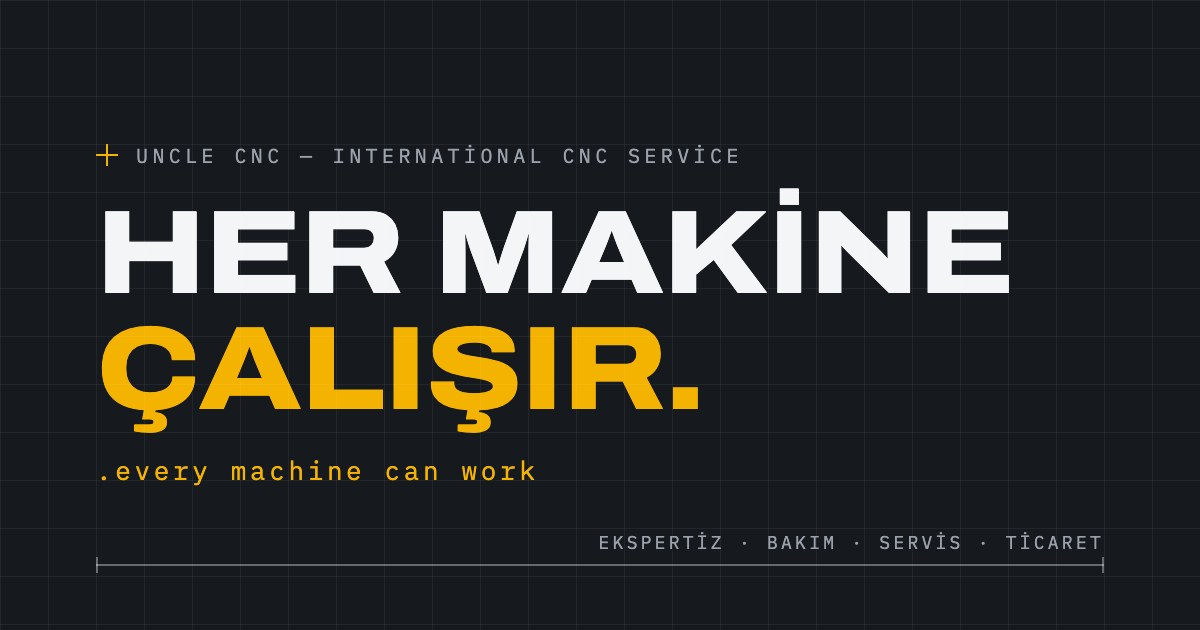
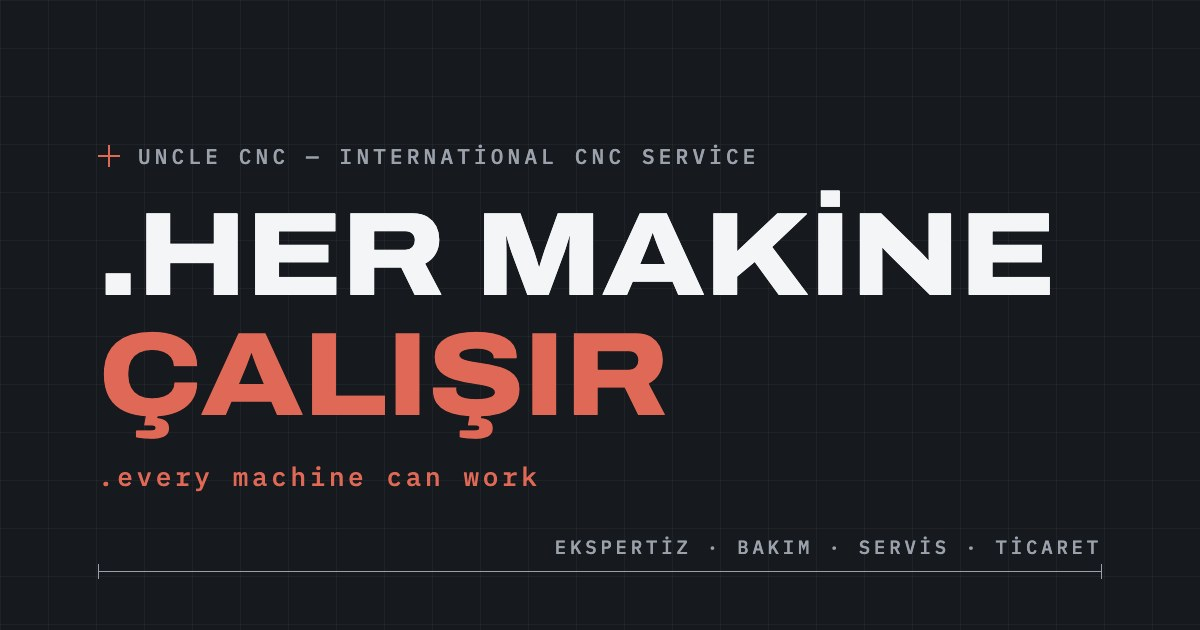
Refresh OG image in red, add www redirect and JSON-LD, set 1.0.0

diff --git a/src/lib/components/site/Seo.svelte b/src/lib/components/site/Seo.svelte
@@ -2,12 +2,20 @@
 	import { page } from '$app/state';
 	import { site } from '$lib/data/site';
 	import { getLocale } from '$lib/paraglide/runtime';
+	import { jsonLdScript } from '$lib/utils/json-ld';
 
 	let {
 		title,
 		description = site.description,
-		image = `${site.url}/og.jpg`
-	}: { title?: string; description?: string; image?: string } = $props();
+		image = `${site.url}/og.jpg`,
+		jsonLd
+	}: {
+		title?: string;
+		description?: string;
+		image?: string;
+		/** Sayfaya özel schema.org nesnesi (ör. ilan sayfasında Product). */
+		jsonLd?: Record<string, unknown>;
+	} = $props();
 
 	const fullTitle = $derived(title ? `${title} | ${site.fullName}` : site.fullName);
 	const canonical = $derived(`${site.url}${page.url.pathname}`);
@@ -20,6 +28,26 @@
 		fa: 'fa_IR'
 	};
 	const ogLocale = $derived(OG_LOCALE[getLocale()] ?? 'tr_TR');
+
+	/** Firma kimliği her sayfada aynıdır. Google işletme sonuçları bu bloğu okur. */
+	const business = {
+		'@context': 'https://schema.org',
+		'@type': 'LocalBusiness',
+		'@id': `${site.url}/#business`,
+		name: site.name,
+		alternateName: site.fullName,
+		url: site.url,
+		image: `${site.url}/og.jpg`,
+		telephone: site.phone.replaceAll(' ', ''),
+		email: site.email,
+		address: {
+			'@type': 'PostalAddress',
+			streetAddress: '100. Yıl Bulvarı 55/A, Ostim OSB',
+			addressLocality: 'Yenimahalle',
+			addressRegion: 'Ankara',
+			addressCountry: 'TR'
+		}
+	};
 </script>
 
 <svelte:head>
@@ -34,4 +62,8 @@
 	<meta property="og:image" content={image} />
 	<meta property="og:locale" content={ogLocale} />
 	<meta name="twitter:card" content="summary_large_image" />
+	{@html jsonLdScript({ ...business, description })}
+	{#if jsonLd}
+		{@html jsonLdScript(jsonLd)}
+	{/if}
 </svelte:head>

diff --git a/src/hooks.server.ts b/src/hooks.server.ts
@@ -5,6 +5,22 @@ import { PUBLIC_SUPABASE_URL, PUBLIC_SUPABASE_ANON_KEY } from '$env/static/publi
 import type { Database } from '$lib/types/database.types';
 import { defaultErrorMessage } from '$lib/utils/errors';
 
+/** `www.` ile gelen istek çıplak alan adına kalıcı yönlenir. ORIGIN tanımlıyken
+ *  `event.url` hep çıplak adı gösterir, bu yüzden vekilin ilettiği Host okunur.
+ *  Prerender edilen sayfalar hook'tan geçmez: onları canonical etiketi korur. */
+const canonicalHost: Handle = ({ event, resolve }) => {
+	const host = event.request.headers.get('x-forwarded-host') ?? event.request.headers.get('host');
+	const safeMethod = event.request.method === 'GET' || event.request.method === 'HEAD';
+	if (host?.toLowerCase().startsWith('www.') && safeMethod) {
+		const { pathname, search } = event.url;
+		return new Response(null, {
+			status: 308,
+			headers: { location: `https://${host.slice(4)}${pathname}${search}` }
+		});
+	}
+	return resolve(event);
+};
+
 /** Supabase oturum istemcisi yalnızca /admin alt ağacı için kurulur. Halka açık
  *  (prerender edilen) sayfalar ve /machines SSR'ı bu hook'tan etkilenmez. */
 const supabase: Handle = async ({ event, resolve }) => {
@@ -61,7 +77,7 @@ const authGuard: Handle = async ({ event, resolve }) => {
 	return resolve(event);
 };
 
-export const handle = sequence(supabase, authGuard);
+export const handle = sequence(canonicalHost, supabase, authGuard);
 
 // Yalnızca beklenmeyen hatalar (fırlatılan istisnalar, eşleşmeyen rotalar) buraya
 // düşer. `error()` çağrıları kendi Türkçe mesajını korur. Gerçek hata sunucu

diff --git a/src/routes/(public)/machines/[slug]/+page.svelte b/src/routes/(public)/machines/[slug]/+page.svelte
@@ -16,12 +16,34 @@
 	const categoryTitle = $derived(data.categoryTitle);
 	const price = $derived(formatPrice(machine.price, machine.currency, localeTag(getLocale())));
 	const specEntries = $derived(Object.entries(machine.specs ?? {}));
+
+	const productLd = $derived({
+		'@context': 'https://schema.org',
+		'@type': 'Product',
+		name: machine.title,
+		description: machine.description ?? machine.title,
+		url: `${site.url}/machines/${machine.slug}`,
+		...(machine.photoUrls.length > 0 && { image: machine.photoUrls }),
+		...(categoryTitle && { category: categoryTitle }),
+		// Fiyatsız ilanlarda Offer yazılmaz: Google fiyatsız Offer'ı hata sayar.
+		...(machine.price != null && {
+			offers: {
+				'@type': 'Offer',
+				price: machine.price,
+				priceCurrency: machine.currency,
+				availability:
+					machine.status === 'sold' ? 'https://schema.org/SoldOut' : 'https://schema.org/InStock',
+				seller: { '@id': `${site.url}/#business` }
+			}
+		})
+	});
 </script>
 
 <Seo
 	title={machine.title}
 	description={machine.description ?? machine.title}
 	image={machine.photoUrls[0]}
+	jsonLd={productLd}
 />
 
 <section class="mx-auto max-w-7xl px-4 py-12 sm:px-6 lg:py-16">

diff --git a/src/lib/utils/json-ld.ts b/src/lib/utils/json-ld.ts
@@ -1,0 +1,4 @@
+/** schema.org nesnesini `<svelte:head>` içine `{@html}` ile basılacak betik etiketine çevirir.
+ *  `<` kaçışı sayesinde veri içindeki bir kapanış etiketi betiği erken kapatamaz. */
+export const jsonLdScript = (data: Record<string, unknown>): string =>
+	`<script type="application/ld+json">${JSON.stringify(data).replaceAll('<', '\\u003c')}</script>`;
